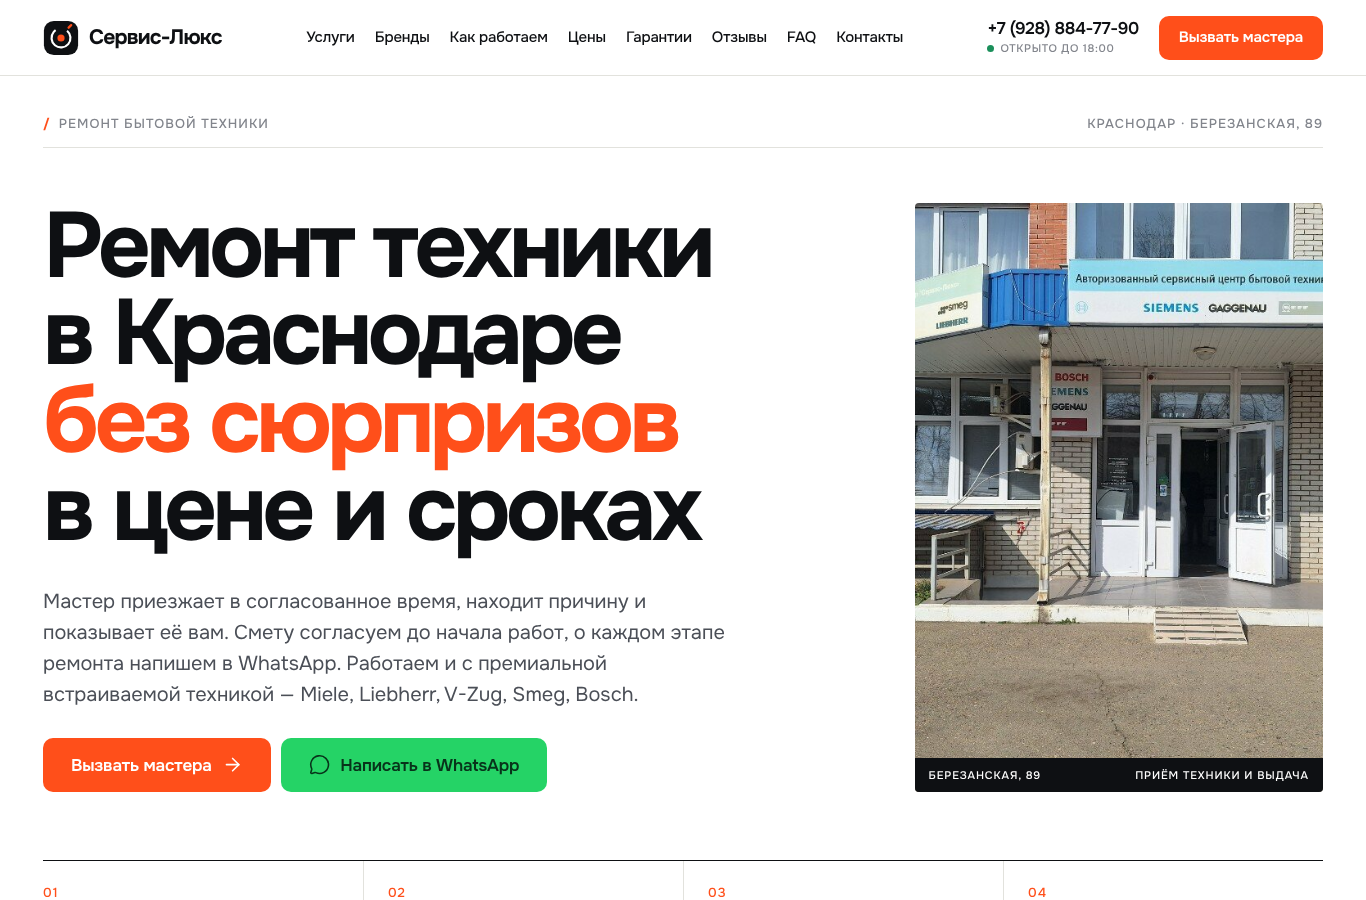
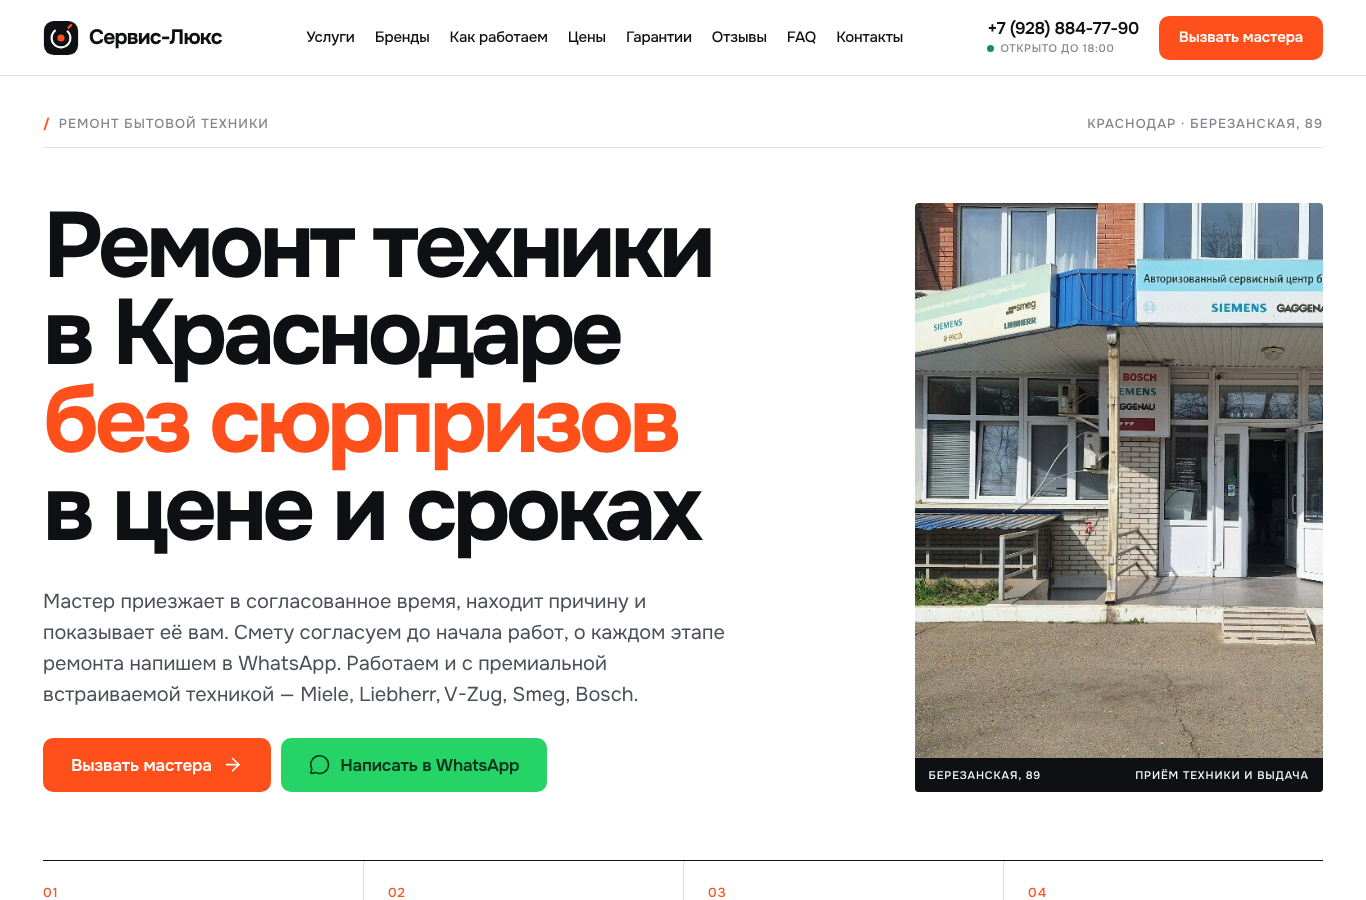
metrics.md, PROGRESS: SEO и производительность
Claude-Session: https://claude.ai/code/session_01MjrRxoxtDoTSH5vWoqp8Aa

Changed region(s): [[0.6457, 0.2178, 0.9839, 0.84]]

diff --git a/agent-context/metrics.md b/agent-context/metrics.md
@@ -1,4 +1,12 @@
-дата | TASK | тип | модель | итераций | с первого раза | где ошибки
-2026-10-09 | 002 | вёрстка+JS | sonnet | 1 | да | нет
-2026-10-09 | 004 | вёрстка+контент | sonnet | 1 | да | нет
-2026-10-09 | 005 | вёрстка+JS | sonnet | 1 | да | нет
+дата | TASK | тип | провайдер/модель | итераций до приёмки | принято с первого раза | где ошибки
+2026-10-09 | 002 | вёрстка+JS | claude/sonnet | 2 (v1, редизайн v2) | да | нет
+2026-10-09 | 004 | вёрстка+контент | claude/sonnet | 2 (v1, v2) | да | не пересмотрел 320 после правки сетки
+2026-10-09 | 005 | вёрстка+JS+фото | claude/sonnet | 3 (v1, фото, v2) | да | кадрирование проверено мной
+2026-10-09 | 003 | вёрстка+JS+тексты | claude/opus | 2 (v1, v2) | да | нет
+2026-10-09 | 006 | SEO+контакты+подвал | claude/opus | 3 (v1, карта/шрифты, v2) | да | горизонтальный скролл чужих секций выявил сам
+2026-10-09 | 007 | юр. часть+cookie | claude/opus | 4 (v1, дата/карта, компакт, v2) | нет | баннер перекрывал первый экран (поймал прораб)
+2026-10-09 | 009 | сервер+аналитика | claude/opus | 1 | да | 29 тестов зелёные
+2026-10-09 | 001 | шапка/hero | claude/opus | 3 (v1, 320-фикс, v2 в работе) | нет | кнопка «Заявка» на 320 (причина: grid 1fr не сжимается)
+2026-10-09 | 010 | иллюстрации | claude/opus | 1 | н/д | результат отброшен: не подошёл новому дизайн-направлению (ошибка постановки прораба)
+
+Выводы пока: sonnet справляется с секциями при чётком контракте с первого раза; opus нужен для интеграций, hero и юр. части. Главный источник возвратов — не качество исполнителей, а смена требований (редизайн v2) и мобильные ширины 320.
